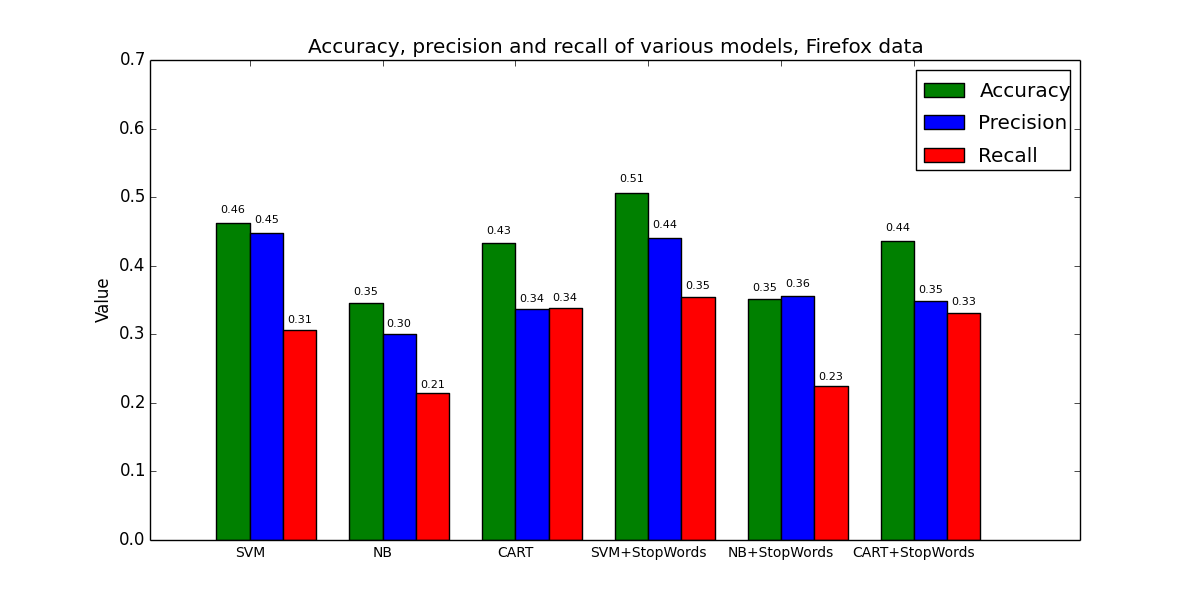
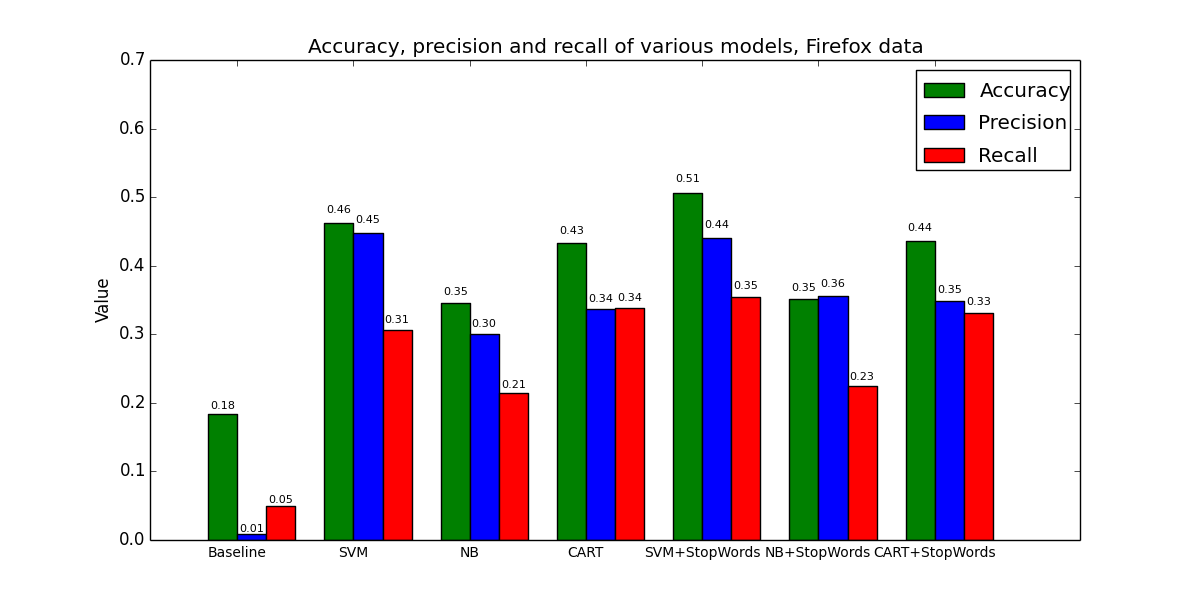
Baseline model

Changed region(s): [[0.1542, 0.3, 0.8325, 0.93]]

diff --git a/text/chapters/Evaluation.tex b/text/chapters/Evaluation.tex
@@ -39,6 +39,12 @@ The Proprietary dataset was provided by a company that wants to remain anonymous
     \label{fig:datasets.proprietary.dist}
 \end{figure}
 
+\section{Baseline}
+
+In this section, we establish a baseline for our models. Our baseline is very simple, the number of bug report that is assigned to each developer is counted and the developer with highest number of reports is selected as a prediction for each subsequent call of the \texttt{predict} function.
+
+Figure~\ref{fig:models.firefox.stopwords} shows the performance of the baseline model on Firefox data. While the accuracy of this model is relatively high (18\%), the precision and recall values are much lower (1\% and 5\%), which can be explained by the way macro-averaged metrics work, see TODO\todo{Replace with reference to the chapter/section which describes the metrics}. 
+
 \section{Stop-Words Removal}
 
 Stop-words removal is a technique that can increases performance of the model. In this section, we determine whether the increase is significant enough to use it for subsequent comparisons of models.

diff --git a/triager/classifier/models.py b/triager/classifier/models.py
@@ -1,4 +1,5 @@
 import numpy as np
+import operator
 from sklearn import naive_bayes
 from sklearn import svm, tree
 
@@ -43,6 +44,30 @@ class AbstractModel(object):
         """
 
         raise NotImplementedError()
+
+
+class BaselineModel(AbstractModel):
+    """This baseline model always predict label that is the most frequent."""
+
+    def __init__(self, feature_selector):
+        super(BaselineModel, self).__init__(feature_selector)
+
+    def train(self, documents):
+        X, Y = self.feature_selector.build(documents)
+        labels_freq = {}
+        for document in documents:
+            if document.label in labels_freq:
+                labels_freq[document.label] += 1
+            else:
+                labels_freq[document.label] = 1
+
+        self.labels_freq = sorted(labels_freq.items(), reverse=True,
+                                  key=operator.itemgetter(1))
+
+    def predict(self, document, n=1):
+        top_n = self.labels_freq[:n]
+        labels = map(lambda x: x[0], top_n)
+        return labels
 
 
 class NaiveBayesModel(AbstractModel):
